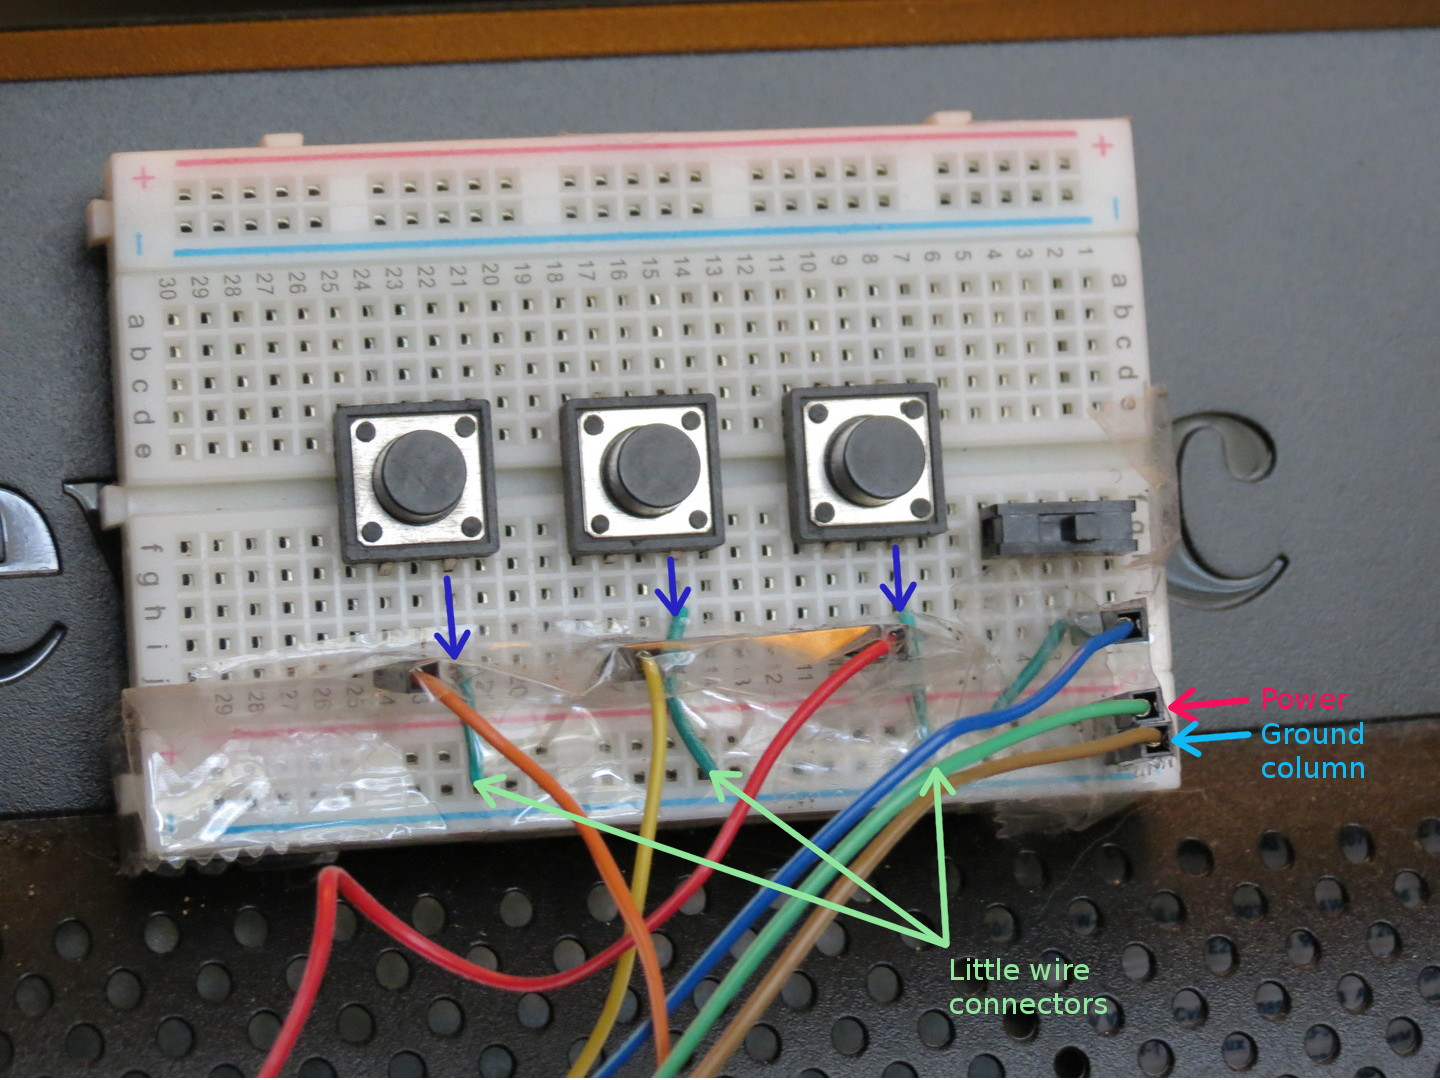
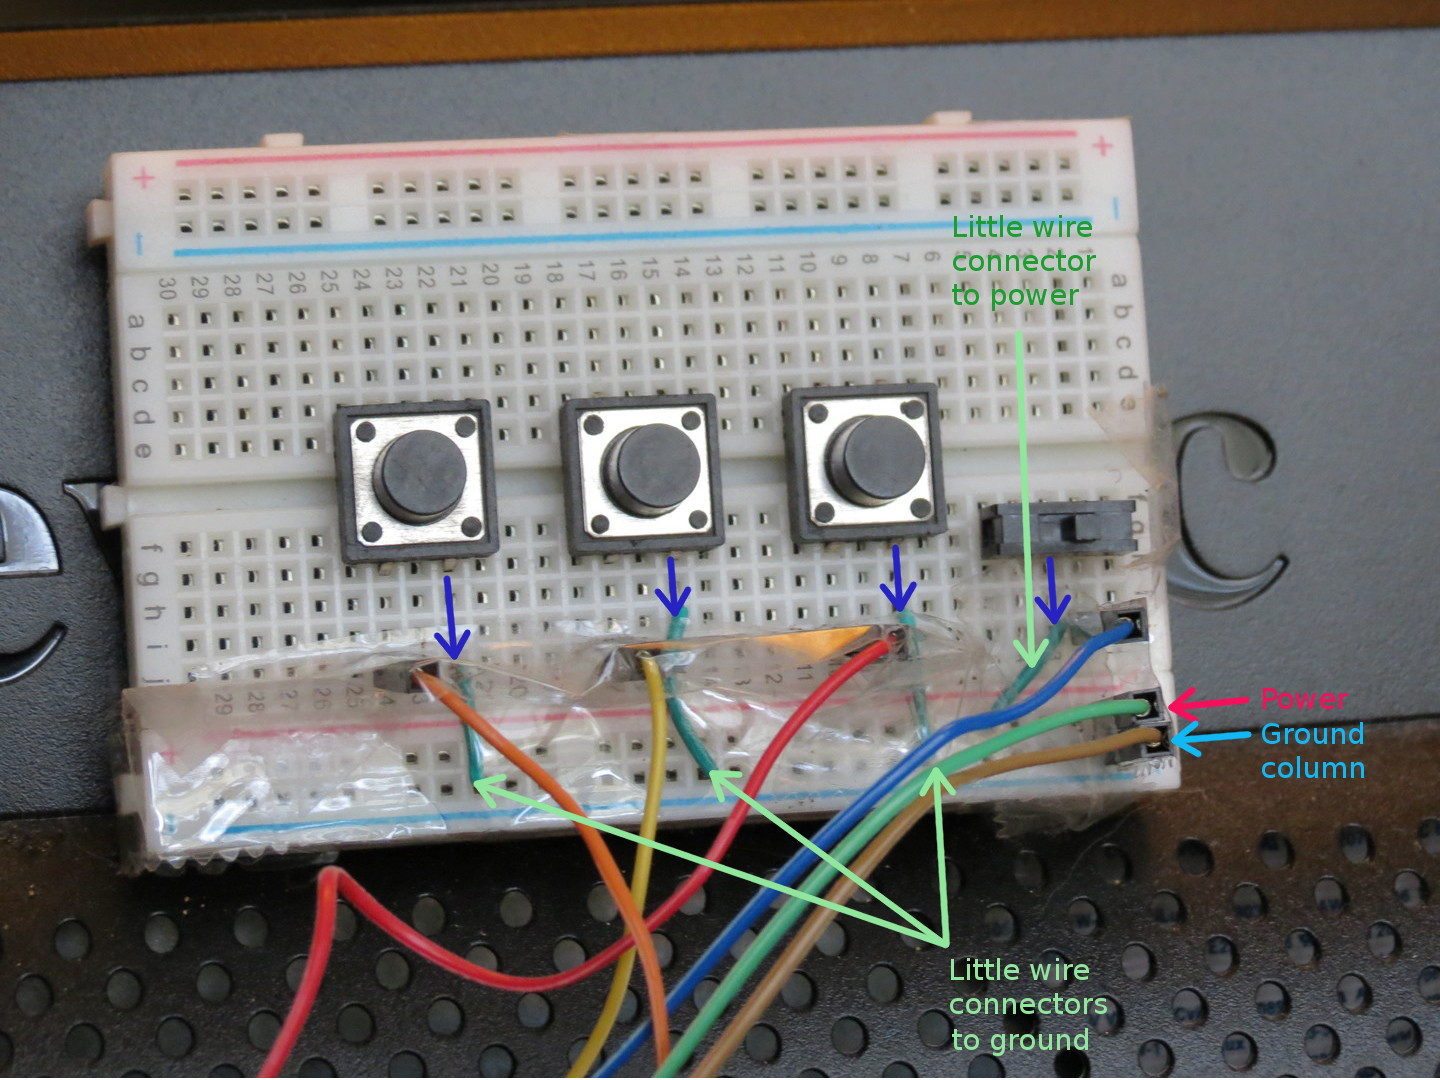
adding instructions

Changed region(s): [[0.6562, 0.1833, 0.75, 0.6111], [0.6562, 0.9472, 0.75, 0.9778]]

diff --git a/index.html b/index.html
@@ -95,6 +95,7 @@ Download my fork of pipresents-next <a href="https://github.com/najoshi/pipresen
 Now you will connect up the half-size breadboard with our buttons for next, previous, and pause, and the sensor on/off switch. You will be using female-to-male jumper wires. First, insert the pushbuttons so that they straddle the central groove and are spaced equally apart. Make sure the button prongs are inserted fully into the breadboard. Insert a jumper wire for each button into the row of the left prong, where the row is perpendicular to the middle groove. Each row is electrically connected, so it doesn't matter which of the 5 sockets (not including the +/- columns) you put it in, as long as it is in the same row on the same side of the groove. Leave the female ends dangling for now, we will connect them later to the Pi.
 
 <img src="media/IMG_0397.resized.JPG" vspace=20>
+<img src="media/IMG_0397_arrow1.resized.JPG" vspace=20>
 
 Next, insert two more jumper wires into the end of each of the "+" and "-" columns. These will supply our ground and power for our buttons and switches. In order to connect the buttons to the ground column, you will need to create little wire connectors. In order to do this, take a new wire and cut three small pieces out of it. For each piece, slice off the rubber coating at the ends (without cutting the copper wire underneath). Then twist the bare wire ends to make them easier to insert.
 
@@ -102,7 +103,9 @@ Next, insert two more jumper wires into the end of each of the "+" and "-" colum
 <img src="media/IMG_0409.resized.JPG" vspace=20>
 <img src="media/IMG_0411.resized.JPG" vspace=20>
 
-Insert the wires so they connect the other prong of the buttons to the ground (i.e. "-") column.
+Insert the wires so they connect the other prong of the buttons to the ground (i.e. "-") column. Finally, insert the switch into the board on one side of the buttons. Connect the middle prong of the switch to power using another wire connector and connect the right prong to another female-to-male wire.
+
+<img src="media/IMG_0397_arrow2.resized.JPG" vspace=20>
 
 
 <!--
